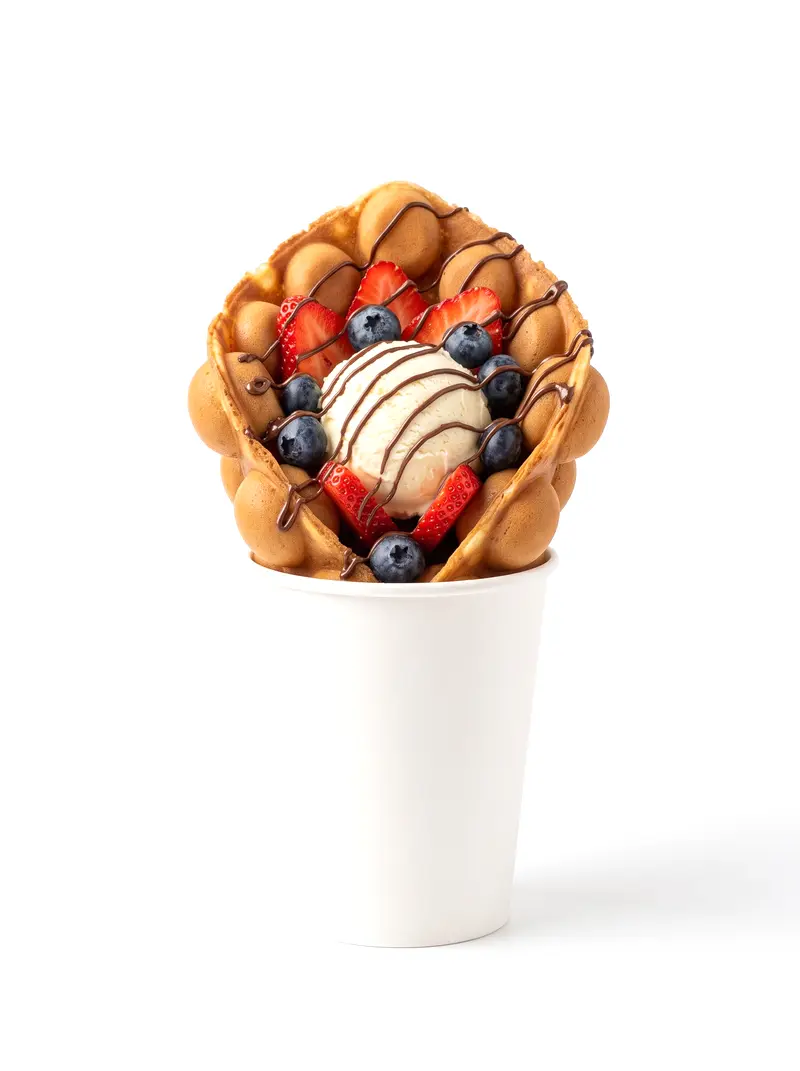
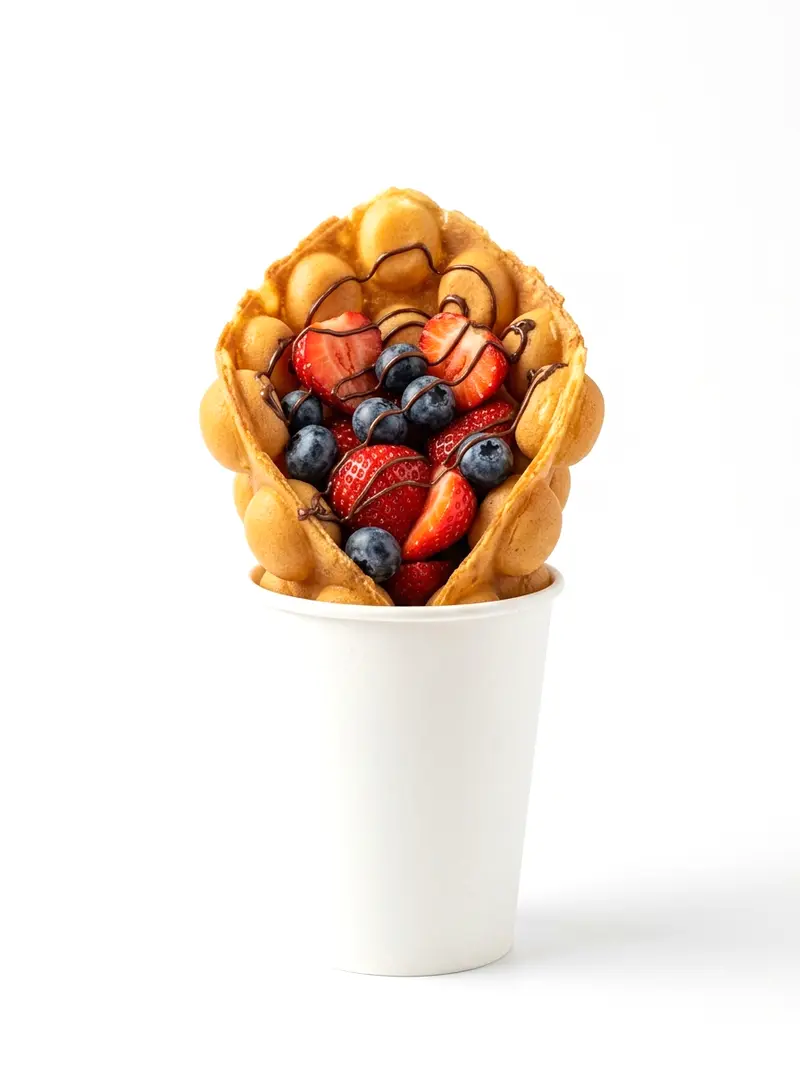
Üründen dondurmayı çıkar, eğitim bilgisini düzelt
- Üründe dondurma yok: metinler, alt metinler ve süsleme adımı güncellendi;
  dondurmalı görseller Antigravity ile üretilen dondurmasız görsellerle
  değiştirildi (giriş, ürün, süsleme, tezgâh paneli, link önizlemesi)
- Giriş bölümündeki çizgi bardak illüstrasyonu kaldırıldı; fotoğrafın
  kenarları sayfanın beyazına eritildi
- SSS: eğitim açılış haftasında sahada veriliyor, ayrı teorik eğitim yok
- PRODUCT.md ve Flow promptları buna göre güncellendi

Changed region(s): [[0.2188, 0.1541, 0.7812, 0.5854], [0.4688, 0.8627, 0.8125, 0.9244]]

diff --git a/index.html b/index.html
@@ -106,45 +106,7 @@ FINISH: unreviewed and undocumented is unfinished; this build ends with the fini
       </div>
 
       <div class="relative mx-auto aspect-[480/620] h-[clamp(8.5rem,23svh,18rem)] lg:col-span-5 lg:h-[min(52svh,36rem)]">
-        <!-- Flow görseli (hero-bardak) gelince çizimin üstüne oturur; yoksa çizim görünür kalır -->
-        <img class="cup-rise absolute inset-0 z-10 h-full w-full bg-paper object-contain [mask-image:linear-gradient(to_left,transparent,#000_7%)]" src="/gorsel/hero-bardak-1600.webp" srcset="/gorsel/hero-bardak-800.webp 800w, /gorsel/hero-bardak-1600.webp 1600w" sizes="(min-width: 1024px) 40vw, 60vw" alt="Kâğıt bardakta bubble waffle: üstünde dondurma, meyve ve çikolata sosu" fetchpriority="high" decoding="async" onerror="this.remove()">
-        <svg class="block h-full w-full" viewBox="0 0 480 620" role="img" aria-labelledby="cup-title">
-        <title id="cup-title">Kâğıt bardakta bubble waffle: üstünde dondurma, meyve ve çikolata sosu (illüstrasyon)</title>
-        <defs>
-          <clipPath id="waffle-clip">
-            <path d="M112 372C104 318 116 270 150 250C176 236 204 242 226 230C252 216 284 224 306 238C340 258 372 292 370 372Z"/>
-          </clipPath>
-        </defs>
-        <g class="cup-rise">
-          <ellipse cx="240" cy="606" rx="112" ry="9" fill="#0B2E1F" opacity=".07"/>
-          <path d="M112 372C104 318 116 270 150 250C176 236 204 242 226 230C252 216 284 224 306 238C340 258 372 292 370 372Z" fill="#F4C85A" stroke="#0B2E1F" stroke-width="2.5"/>
-          <g clip-path="url(#waffle-clip)" fill="#FBE19A" stroke="#D49E2C" stroke-width="1.5">
-            <circle class="bubble" style="--i:0" cx="134" cy="250" r="14"/><circle class="bubble" style="--i:1" cx="160" cy="250" r="14"/><circle class="bubble" style="--i:2" cx="186" cy="250" r="14"/><circle class="bubble" style="--i:3" cx="212" cy="250" r="14"/><circle class="bubble" style="--i:4" cx="238" cy="250" r="14"/><circle class="bubble" style="--i:5" cx="264" cy="250" r="14"/><circle class="bubble" style="--i:6" cx="290" cy="250" r="14"/><circle class="bubble" style="--i:7" cx="316" cy="250" r="14"/><circle class="bubble" style="--i:8" cx="342" cy="250" r="14"/>
-            <circle class="bubble" style="--i:9" cx="121" cy="275" r="14"/><circle class="bubble" style="--i:10" cx="147" cy="275" r="14"/><circle class="bubble" style="--i:11" cx="173" cy="275" r="14"/><circle class="bubble" style="--i:12" cx="199" cy="275" r="14"/><circle class="bubble" style="--i:13" cx="225" cy="275" r="14"/><circle class="bubble" style="--i:14" cx="251" cy="275" r="14"/><circle class="bubble" style="--i:15" cx="277" cy="275" r="14"/><circle class="bubble" style="--i:16" cx="303" cy="275" r="14"/><circle class="bubble" style="--i:17" cx="329" cy="275" r="14"/><circle class="bubble" style="--i:18" cx="355" cy="275" r="14"/>
-            <circle class="bubble" style="--i:19" cx="134" cy="300" r="14"/><circle class="bubble" style="--i:20" cx="160" cy="300" r="14"/><circle class="bubble" style="--i:21" cx="186" cy="300" r="14"/><circle class="bubble" style="--i:22" cx="212" cy="300" r="14"/><circle class="bubble" style="--i:23" cx="238" cy="300" r="14"/><circle class="bubble" style="--i:24" cx="264" cy="300" r="14"/><circle class="bubble" style="--i:25" cx="290" cy="300" r="14"/><circle class="bubble" style="--i:26" cx="316" cy="300" r="14"/><circle class="bubble" style="--i:27" cx="342" cy="300" r="14"/>
-            <circle class="bubble" style="--i:28" cx="121" cy="325" r="14"/><circle class="bubble" style="--i:29" cx="147" cy="325" r="14"/><circle class="bubble" style="--i:30" cx="173" cy="325" r="14"/><circle class="bubble" style="--i:31" cx="199" cy="325" r="14"/><circle class="bubble" style="--i:32" cx="225" cy="325" r="14"/><circle class="bubble" style="--i:33" cx="251" cy="325" r="14"/><circle class="bubble" style="--i:34" cx="277" cy="325" r="14"/><circle class="bubble" style="--i:35" cx="303" cy="325" r="14"/><circle class="bubble" style="--i:36" cx="329" cy="325" r="14"/><circle class="bubble" style="--i:37" cx="355" cy="325" r="14"/>
-            <circle class="bubble" style="--i:38" cx="134" cy="350" r="14"/><circle class="bubble" style="--i:39" cx="160" cy="350" r="14"/><circle class="bubble" style="--i:40" cx="186" cy="350" r="14"/><circle class="bubble" style="--i:41" cx="212" cy="350" r="14"/><circle class="bubble" style="--i:42" cx="238" cy="350" r="14"/><circle class="bubble" style="--i:43" cx="264" cy="350" r="14"/><circle class="bubble" style="--i:44" cx="290" cy="350" r="14"/><circle class="bubble" style="--i:45" cx="316" cy="350" r="14"/><circle class="bubble" style="--i:46" cx="342" cy="350" r="14"/>
-          </g>
-          <path d="M112 372C104 318 116 270 150 250C176 236 204 242 226 230C252 216 284 224 306 238C340 258 372 292 370 372Z" fill="none" stroke="#0B2E1F" stroke-width="2.5"/>
-          <!-- dondurma -->
-          <path d="M180 240C170 198 200 168 240 168C280 168 308 198 298 240C290 252 270 246 256 254C240 262 222 250 206 254C192 258 184 250 180 240Z" fill="#FFFCF2" stroke="#0B2E1F" stroke-width="2.5"/>
-          <path d="M214 196C222 186 236 182 248 184" fill="none" stroke="#0B2E1F" stroke-width="2" stroke-linecap="round" opacity=".35"/>
-          <!-- çikolata sosu -->
-          <path class="drizzle" d="M146 266C170 296 186 232 212 268C234 300 250 226 276 266C298 300 318 244 346 282" fill="none" stroke="#4A2A1A" stroke-width="5.5" stroke-linecap="round" stroke-linejoin="round"/>
-          <!-- meyveler -->
-          <circle cx="198" cy="212" r="10" fill="#2E3560" stroke="#0B2E1F" stroke-width="2"/>
-          <circle cx="270" cy="204" r="9" fill="#2E3560" stroke="#0B2E1F" stroke-width="2"/>
-          <circle cx="318" cy="296" r="10" fill="#2E3560" stroke="#0B2E1F" stroke-width="2"/>
-          <path d="M230 182C222 166 230 152 244 154C258 156 262 172 250 186C244 192 236 190 230 182Z" fill="#E4484F" stroke="#0B2E1F" stroke-width="2"/>
-          <path d="M240 156C244 146 254 142 262 146" fill="none" stroke="#2E7D4F" stroke-width="3" stroke-linecap="round"/>
-          <path d="M150 316C142 300 152 286 166 290C180 294 182 310 170 322C164 328 156 326 150 316Z" fill="#E4484F" stroke="#0B2E1F" stroke-width="2"/>
-          <!-- bardak -->
-          <path d="M128 372H352L318 600Q240 614 162 600Z" fill="#FFFFFF" stroke="#0B2E1F" stroke-width="2.5" stroke-linejoin="round"/>
-          <path d="M141 446H339L333 490H147Z" fill="#0B2E1F"/>
-          <text x="240" y="477" text-anchor="middle" fill="#FFFFFF" font-family="League Spartan Variable, system-ui, sans-serif" font-weight="700" font-size="25" letter-spacing="4">WAFIL</text>
-          <rect x="118" y="362" width="244" height="19" rx="9.5" fill="#FFFFFF" stroke="#0B2E1F" stroke-width="2.5"/>
-        </g>
-      </svg>
+        <img class="cup-rise absolute inset-0 z-10 h-full w-full bg-paper object-contain hero-fade" src="/gorsel/hero-bardak-1600.webp" srcset="/gorsel/hero-bardak-800.webp 800w, /gorsel/hero-bardak-1600.webp 1600w" sizes="(min-width: 1024px) 40vw, 60vw" alt="Kâğıt bardakta bubble waffle: üstünde meyve ve çikolata sosu" fetchpriority="high" decoding="async" onerror="this.remove()">
       </div>
     </div>
 
@@ -439,7 +401,7 @@ FINISH: unreviewed and undocumented is unfinished; this build ends with the fini
   <div class="mx-auto grid w-full max-w-frame grid-cols-1 items-center gap-x-14 gap-y-[clamp(1rem,2.5svh,2.5rem)] px-5 md:px-10 lg:grid-cols-12">
     <figure class="slot mx-auto aspect-[16/9] w-full rounded-[22px] md:aspect-[2/1] lg:col-span-5 lg:aspect-[3/4] lg:h-[min(74svh,44rem)] lg:w-auto lg:rounded-[28px]" data-reveal>
       <span class="slot-label">urun-bardak</span>
-      <img src="/gorsel/urun-bardak-1600.webp" srcset="/gorsel/urun-bardak-800.webp 800w, /gorsel/urun-bardak-1600.webp 1600w" sizes="(min-width: 1024px) 40vw, 90vw" alt="Kâğıt bardakta bubble waffle: çilek, yaban mersini, çikolata sosu ve bir top dondurma" loading="lazy" decoding="async" onerror="this.remove()">
+      <img src="/gorsel/urun-bardak-1600.webp" srcset="/gorsel/urun-bardak-800.webp 800w, /gorsel/urun-bardak-1600.webp 1600w" sizes="(min-width: 1024px) 40vw, 90vw" alt="Kâğıt bardakta bubble waffle: çilek, yaban mersini ve çikolata sosu" loading="lazy" decoding="async" onerror="this.remove()">
     </figure>
     <div class="lg:col-span-7" data-reveal style="--d:2">
       <h2 class="h-sec">Her bardak aynı tarifle.</h2>
@@ -475,7 +437,7 @@ FINISH: unreviewed and undocumented is unfinished; this build ends with the fini
             <img src="/gorsel/surec-susleme-800.webp" alt="Bardaktaki waffle'ın üstüne meyve ve sos eklenmesi" loading="lazy" decoding="async" onerror="this.remove()">
           </figure>
           <p class="mt-2 font-display text-lg font-semibold leading-tight"><span class="mr-1.5 text-sm text-ink-soft tabular">4</span>Süsleme</p>
-          <p class="mt-0.5 text-[14px] leading-snug text-ink-soft">Meyve, sos ve dondurma.</p>
+          <p class="mt-0.5 text-[14px] leading-snug text-ink-soft">Meyve, çikolata ve süsler.</p>
         </li>
       </ol>
     </div>
@@ -530,7 +492,7 @@ FINISH: unreviewed and undocumented is unfinished; this build ends with the fini
           <span class="font-display text-[clamp(1.1rem,2.5svh,1.6rem)] font-medium leading-snug tracking-[-0.015em]">Eğitim nerede veriliyor?</span>
           <svg class="ic accordion-icon !h-6 !w-6" viewBox="0 0 24 24" aria-hidden="true"><path d="M12 5v14M5 12h14"/></svg>
         </button>
-        <div class="accordion-content"><div><p class="max-w-2xl pb-7 text-lg leading-relaxed text-ink-soft">Eğitim önce bizim yanımızda teorik olarak başlar, ardından onaylanan kendi lokasyonunuzda uygulamalı olarak tamamlanır.</p></div></div>
+        <div class="accordion-content"><div><p class="max-w-2xl pb-7 text-lg leading-relaxed text-ink-soft">Eğitim sahada veriliyor. Açılış haftasında sizin tezgâhınızda, yanınızda oluyoruz; işi tezgâhın başında birlikte öğreniyorsunuz.</p></div></div>
       </div>
       <div class="accordion-item border-b border-line">
         <button class="accordion-toggle flex w-full items-center justify-between gap-6 py-[clamp(.7rem,2svh,1.4rem)] text-left" type="button" aria-expanded="false">

diff --git a/src/index.css b/src/index.css
@@ -159,6 +159,17 @@
   }
 }
 
+/* Giriş fotoğrafı: zemini sayfanın beyazından bir tık gri; dört kenarı da
+   yumuşakça erittirilir ki fotoğraf kutu gibi görünmesin */
+.hero-fade {
+  -webkit-mask-image: linear-gradient(to right, transparent, #000 9%, #000 91%, transparent),
+    linear-gradient(to bottom, transparent, #000 7%, #000 93%, transparent);
+  -webkit-mask-composite: source-in;
+  mask-image: linear-gradient(to right, transparent, #000 9%, #000 91%, transparent),
+    linear-gradient(to bottom, transparent, #000 7%, #000 93%, transparent);
+  mask-composite: intersect;
+}
+
 /* Bardak illüstrasyonu: kabarcıklar tek tek dolar, sos çizilir */
 .js .cup-rise {
   opacity: 0;

diff --git a/PRODUCT.md b/PRODUCT.md
@@ -24,7 +24,8 @@ WAFIL bir franchise markasıdır: yatırımcı, büyük bir dükkân yerine tek 
 ## Operating Context
 
 - Başvuru akışı: Başvuru → Ön görüşme → Lokasyon onayı → Sözleşme ve ödeme → Kurulum ve eğitim → Açılış.
-- Eğitim: teorik kısım markanın yanında, uygulama yatırımcının onaylanan lokasyonunda.
+- Ürün: kâğıt bardakta bubble waffle; üstünde meyve, çikolata ve süsler. Dondurma yok (2026-10-20 düzeltmesi).
+- Eğitim: ayrı bir teorik eğitim yok. Açılış haftasında sahada, yatırımcının yanında veriliyor (2026-10-20 düzeltmesi).
 - Tedarik: temel ham maddeler (özel waffle unu, soslar) merkezden; taze meyve yerelden.
 - Trafik: Instagram (`@wafil.tr`) reklamları ve organik içerik; içerik aynı marka sesiyle Remotion ile üretiliyor (`../wafıl-insta`).
 
